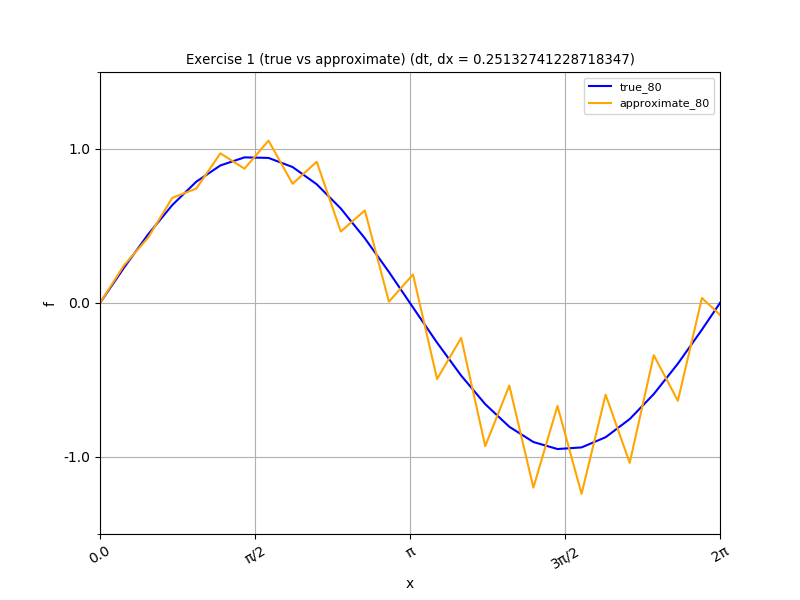
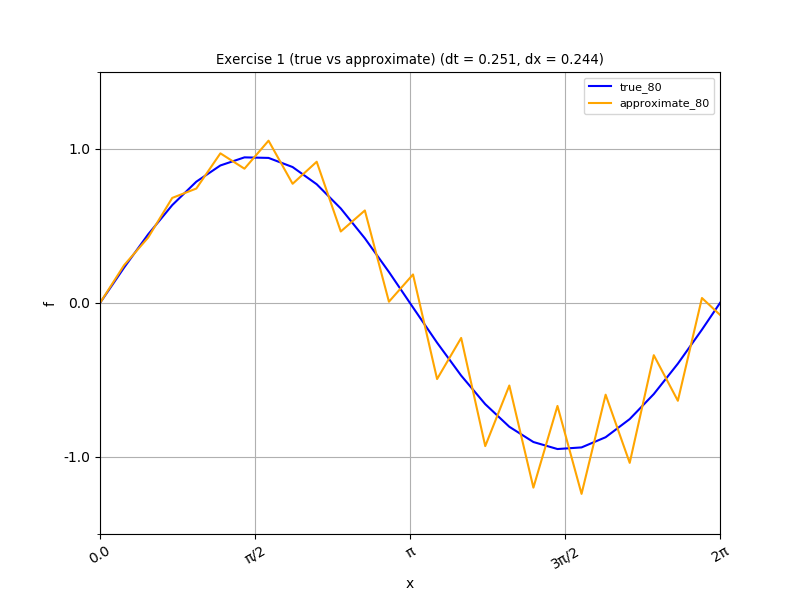
add lecture8 coding

Changed region(s): [[0.2188, 0.09, 0.7812, 0.12]]

diff --git a/src/lecture8.py b/src/lecture8.py
@@ -175,7 +175,7 @@ if __name__ == '__main__':
     pa = plt.plot(x, f[int(0.4 * t_i)], label=f'approximate_{int(0.4 * t_i)}', color='orange')
     plt.xlim(0, L)
     plt.ylim(-3 * A / c / n, 3 * A / c / n)
-    plt.title(f"Exercise 1 (true vs approximate) (dt, dx = {dt1})")
+    plt.title(f"Exercise 1 (true vs approximate) (dt = {round(dt1, 3)}, dx = {round(dx, 3)})")
     plt.legend(loc='upper right')
     a, b = xx(0)
     plt.xticks(a, b, rotation=30)
@@ -195,7 +195,7 @@ if __name__ == '__main__':
     qa = plt.plot(x, g[int(0.4 * t_i)][:-1], label=f'approximate_{int(0.4 * t_i)}', color='orange')
     plt.xlim(0, L)
     plt.ylim(-5 * A / c / (2 * n - 1), 5 * A / c / (2 * n - 1))
-    plt.title(f"Exercise 2 (true vs approximate) (dt, dx = {dt1})")
+    plt.title(f"Exercise 2 (true vs approximate) (dt = {round(dt1, 3)}, dx = {round(dx, 3)}))")
     plt.legend(loc='upper right')
     a, b = xx(1)
     plt.xticks(a, b, rotation=30)
